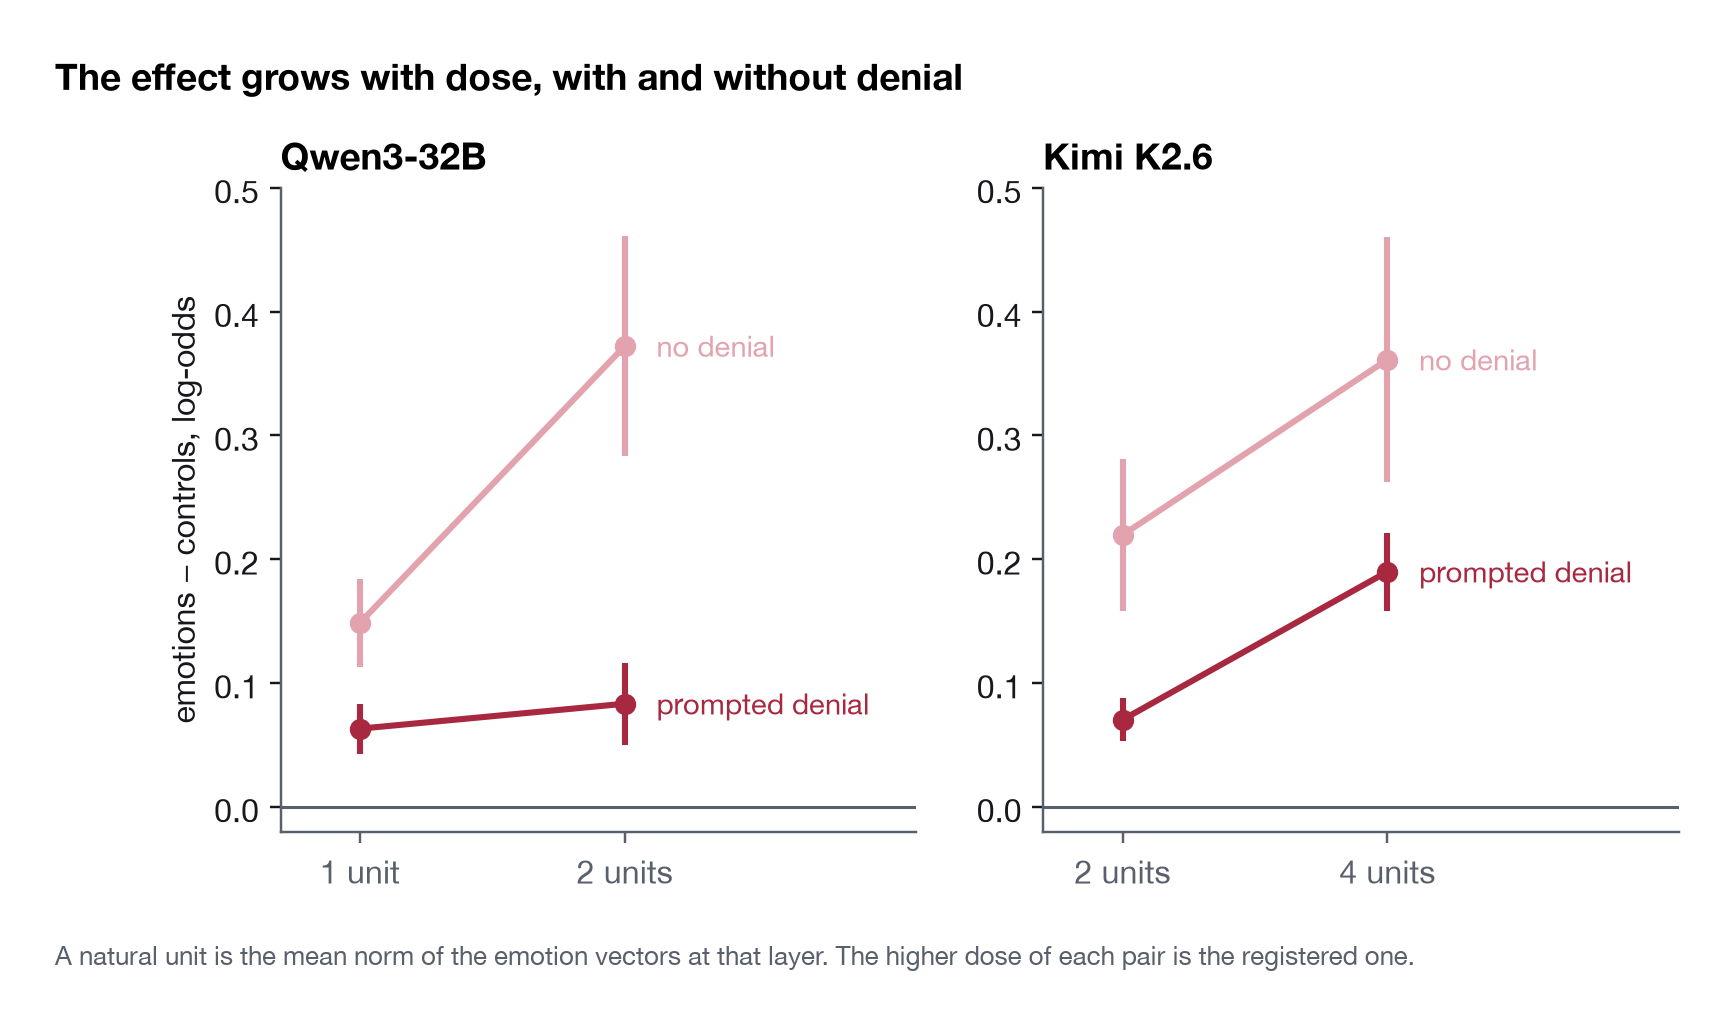
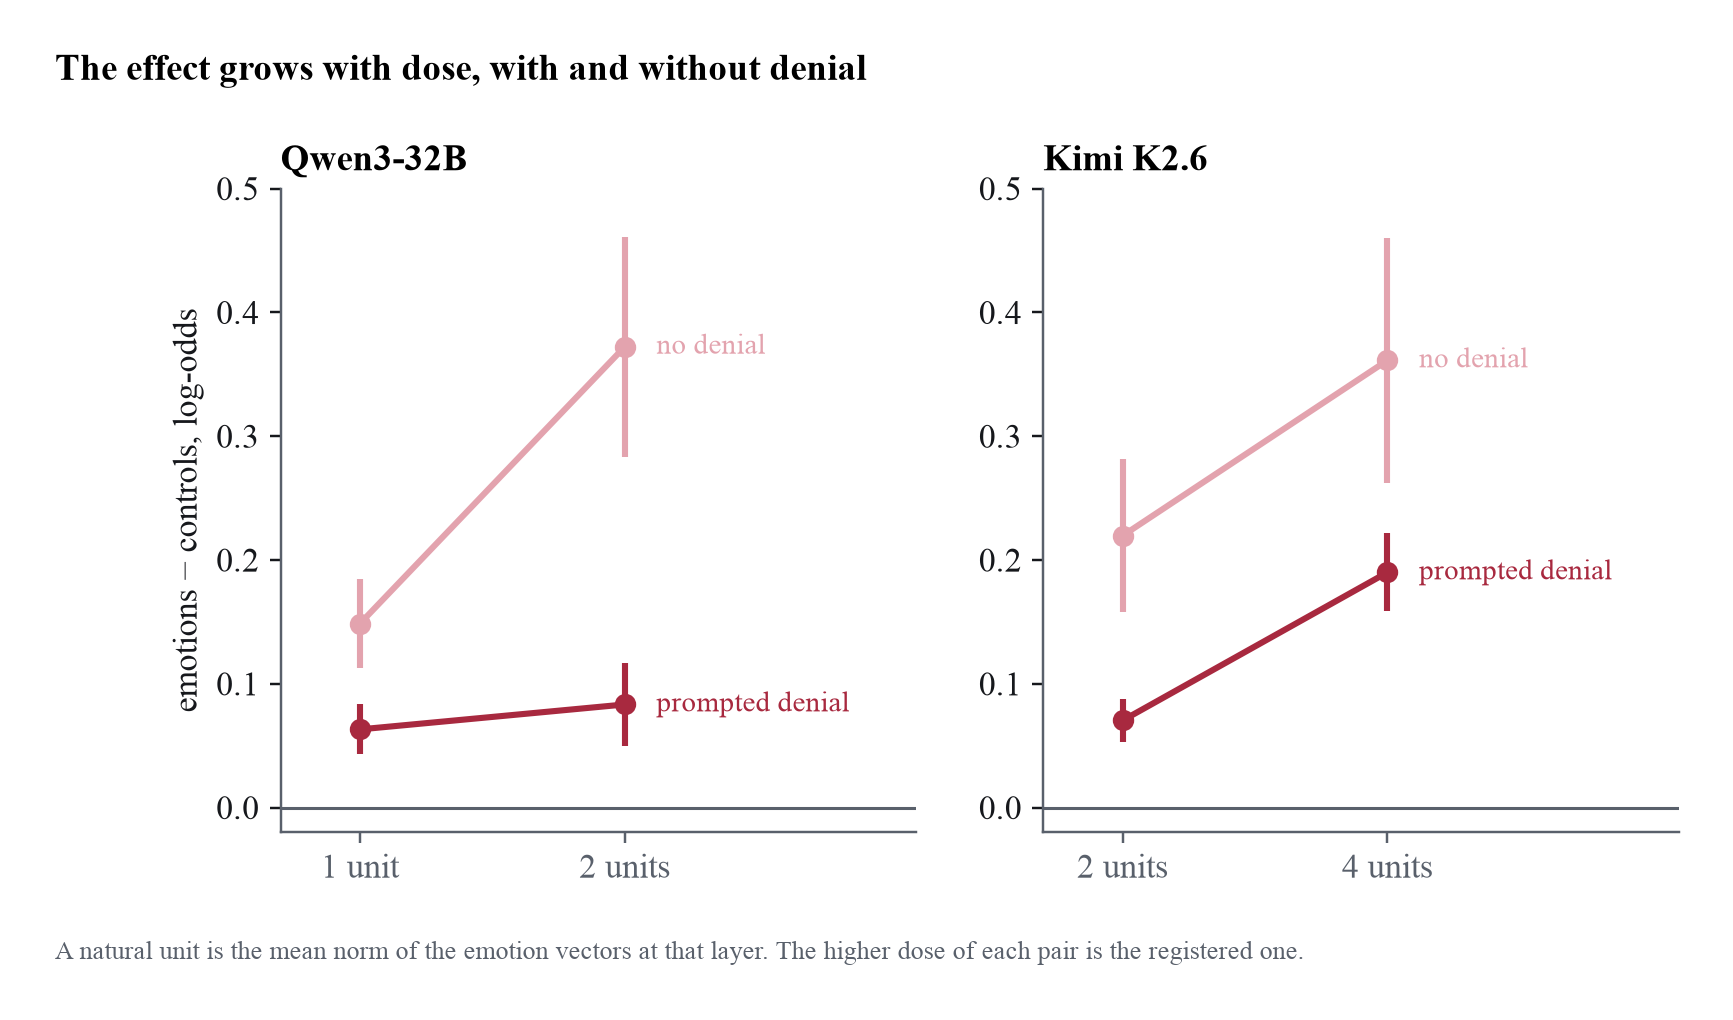
Figures in Times New Roman

diff --git a/runs/confirm_figures.py b/runs/confirm_figures.py
@@ -23,7 +23,7 @@ INK, MUTED, RULE = "#16181c", "#59606b", "#d6dae0"
 EMO, EMO_L, SEM, NON = "#a8293f", "#e3a3ae", "#3f6587", "#8b919b"
 YES, WEAK, REV = "#22684a", "#9a7614", "#9b3b1c"
 plt.rcParams.update({
-    "font.family": ["Helvetica Neue", "Helvetica", "Arial", "DejaVu Sans"], "font.size": 10.5,
+    "font.family": ["Times New Roman", "Times", "DejaVu Serif"], "font.size": 11, "mathtext.fontset": "stix",
     "axes.edgecolor": MUTED, "axes.labelcolor": INK, "xtick.color": MUTED, "ytick.color": INK,
     "axes.spines.top": False, "axes.spines.right": False, "axes.titleweight": "bold",
     "axes.titlesize": 12, "axes.titlelocation": "left", "figure.dpi": 100, "savefig.dpi": 220,
